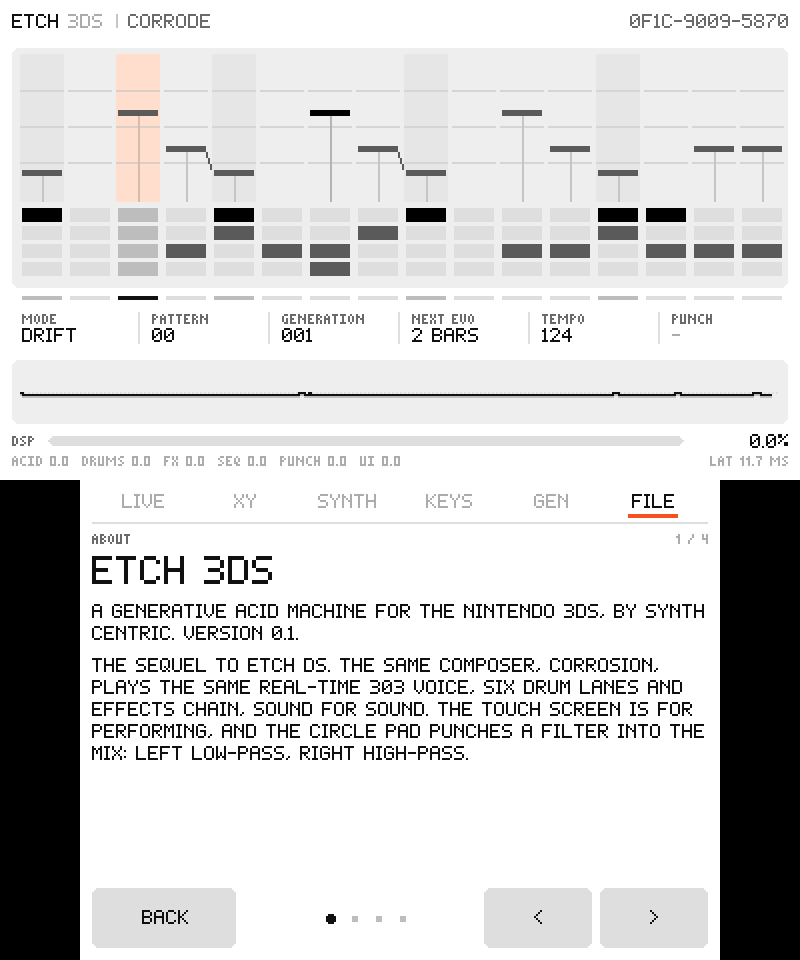
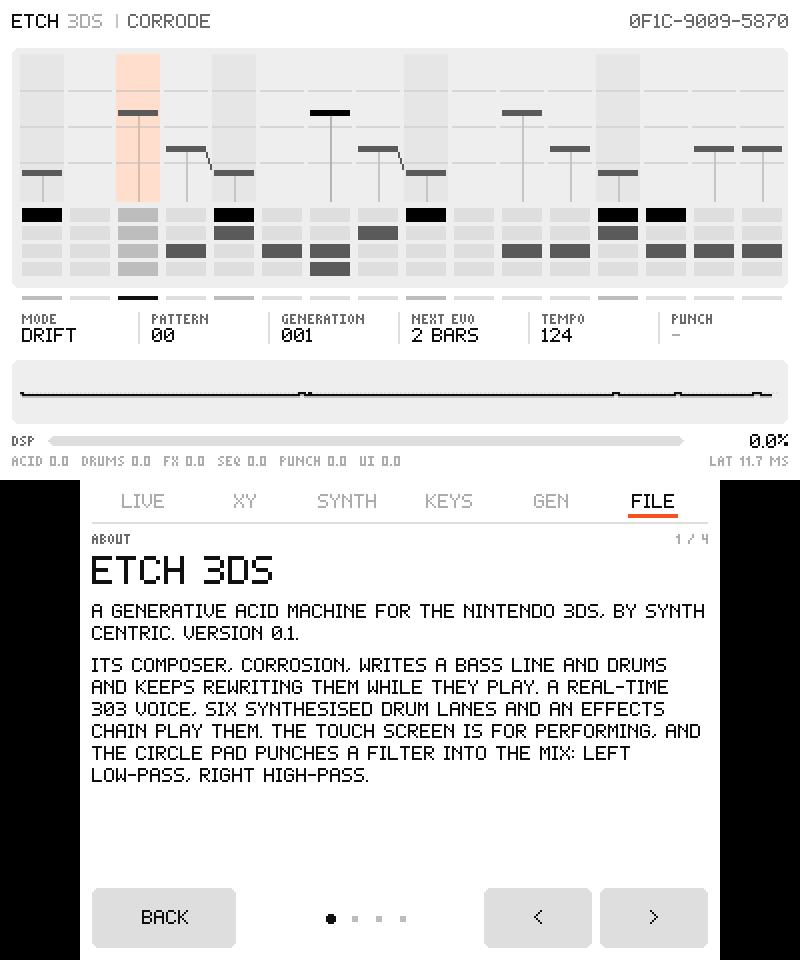
ETCH 3DS: ABOUT reads as a standalone release; core re-synced from ETCH DS 0.4; hand-over prompt updated
Claude-Session: https://claude.ai/code/session_01P79eMKsidhtYV1SaL3tDMu

Changed region(s): [[0.125, 0.6875, 0.875, 0.8125]]

diff --git a/3ds/source/ui.c b/3ds/source/ui.c
@@ -1363,23 +1363,23 @@ static uint16_t fl_msg_col;
 static uint32_t fl_sig = 0xFFFFFFFF;
 
 
-/* ---- ABOUT (from FILE), as on ETCH and ETCH II ------------------------------ */
+/* ---- ABOUT (from FILE): four pages, standalone ------------------------------- */
 #define N_ABOUT 4
 static const char * const about_title[N_ABOUT] = { "ETCH 3DS", "GENERATIVE MUSIC", "SYNTH CENTRIC", "CREDITS" };
 static const char * const about_text[N_ABOUT] = {
     "A generative acid machine for the Nintendo 3DS, by Synth Centric. Version " ETCH_3DS_VERSION ".\n"
-    "The sequel to ETCH DS. The same composer, CORROSION, plays the same real-time 303 voice, six drum lanes "
-    "and effects chain, sound for sound. The touch screen is for performing, and the Circle Pad punches "
-    "a filter into the mix: left low-pass, right high-pass.",
+    "Its composer, CORROSION, writes a bass line and drums and keeps rewriting them while they play. "
+    "A real-time 303 voice, six synthesised drum lanes and an effects chain play them. The touch screen "
+    "is for performing, and the Circle Pad punches a filter into the mix: left low-pass, right high-pass.",
     "Generative music is made by a system of rules and chance instead of being fixed note by note.\n"
     "CORROSION composes a bass line and drums from a seed. In DRIFT or CORRODE it keeps rewriting them, "
-    "so every listen is different. A 12-digit ETCH seed code makes the same groove on Game Boy, "
-    "Game Boy Advance, DS and 3DS.",
+    "so every listen is different. A 12-digit seed code always makes the same groove: "
+    "share the code to share the song.",
     "Dan Schwebel, known as Synth Centric, is an Australian beat maker, music producer, writer and educator.\n"
-    "ETCH, ETCH II, ETCH DS and ETCH 3DS are Synth Centric releases.",
+    "ETCH 3DS is a Synth Centric release.",
     "Code: MIT licence.\n"
     "Music, artwork and names: (c) Synth Centric.\n"
-    "CORROSION: from ETCH 2.5, MIT, unchanged. Sound engine: from ETCH DS, unchanged.\n"
+    "CORROSION and the sound engine: MIT licence.\n"
     "Built with devkitARM and libctru. Every sound is synthesised by the 3DS; there are no recorded samples.",
 };
 static uint8_t fl_about, ab_page;

diff --git a/core/engine/app.h b/core/engine/app.h
@@ -56,7 +56,7 @@ uint32_t audio_scope(int16_t *out, uint32_t n);
 void demo_load(project_t *p);        /* portable: also used by the host tests */
 void demo_import_sound(const project_t *p);
 
-#define ETCH_DS_VERSION "0.3"
+#define ETCH_DS_VERSION "0.4"
 
 /* title.c: the opening screen; returns the entropy of the START press */
 void     title_show(void);          /* draw it (first thing at boot) */

diff --git a/docs/ETCH_3DS_SERIES_FINISH_PROMPT.md b/docs/ETCH_3DS_SERIES_FINISH_PROMPT.md
@@ -29,12 +29,13 @@ Backups of every repository before this work are on the branches `claude/backup-
    - **FILE:** the source button cycles DS → GB → GBA; GBA imports `/etch_ds/etch_gba.sav`.
 3. `docs/SERIES_SPEC.md` copied; `make check` verifies it.
 4. Host tests: 44 + 231 + 81 + 70 + PUNCH 19 + screens 6, 0 failures.
+5. The ABOUT pages read as a standalone release: no "sequel to ETCH DS". Page 1 describes ETCH 3DS only; the generative music page says a seed code always makes the same groove ("share the code to share the song") without naming other consoles; the Synth Centric page says "ETCH 3DS is a Synth Centric release."; the credits keep the licences but don't say "from ETCH 2.5" or "from ETCH DS".
 
 ## Your tasks
 
 Work on the branch `claude/etch-3ds-series`. Commit as you go and push to it. Don't merge, and don't open a pull request unless asked.
 
-1. **Re-sync the core.** ETCH-DS moved on after the 3DS sync: it is now version 0.4 (`ETCH_DS_VERSION` in `arm9/source/app.h`, part of the core) and its host test reads the ETCH II fixture from a `GBA_FIXTURE` path. Run `tools/sync_core.sh` against ETCH-DS `claude/etch-ds-series` HEAD, then `make test`. `tests/host/Makefile` already passes `-DGBA_FIXTURE` for the 3DS layout. Never edit `core/` by hand.
+1. **Check the core.** `core/` is already synced from ETCH-DS `claude/etch-ds-series` (ETCH DS 0.4). If that branch has moved on since, re-run `tools/sync_core.sh` against its HEAD; then `make test`. `tests/host/Makefile` already passes `-DGBA_FIXTURE` for the 3DS layout. Never edit `core/` by hand.
 2. **Build for the console** with devkitARM + libctru (`make`, or `docker run --rm -v "$PWD":/work -w /work devkitpro/devkitarm make`). Expect to fix console-only compile issues: the UI changes were only compiled on the host. Keep the 3DS UI's changes equivalent to ETCH DS's (compare with ETCH-DS `arm9/source/ui.c`).
 3. **Run every existing check:** `make test`, `tools/arm_parity.sh`, `tools/check_audio_path.py` on `etch_3ds.elf`, and the Azahar harness (`tools/run_azahar.py`, including `--tour`, `--saves`, `--punch`, `--stress`, and `--model new3ds`). Zero dropouts, as in milestone 1.
 4. **Check the series controls on the console build** (extend the Azahar runner if needed, as ETCH-DS did in `tools/check_series_controls.py`):
@@ -47,7 +48,7 @@ Work on the branch `claude/etch-3ds-series`. Commit as you go and push to it. Do
    - The accent shows where the spec says, and no text is drawn in it.
 5. **Version:** bump `ETCH_3DS_VERSION` (`3ds/source/platform.h`) from 0.1 to **0.2**. The title and ABOUT show it.
 6. **Screenshots:** regenerate `docs/images` (host `test_screens` + `tools/screens_png.py`, and `azahar.png` from the emulator).
-7. **Manual:** write `docs/ETCH_3DS_Manual.md`, modelled on ETCH-DS `docs/ETCH_DS_Manual.md` (same sections, plain language, screenshots), plus the 3DS-only parts: PUNCH on the Circle Pad (low-pass left, high-pass right, quantised to the next 16th, snaps back), the larger screens, the quit combo, `dspfirm.cdc` (run DSP1 once if there is no sound), the shared save file with ETCH DS, and the GB and GBA imports. Render it to PDF the way ETCH-DS does (`tools/make_pdf_manual.py`: Markdown → HTML → Chromium PDF).
+7. **Manual:** write `docs/ETCH_3DS_Manual.md`, modelled on ETCH-DS `docs/ETCH_DS_Manual.md`. It must read as a standalone release: never "sequel" or "successor". Other consoles are only mentioned where a feature needs them: the save imports, and the shared save file with ETCH DS. Same sections (plain language, screenshots), plus the 3DS-only parts: PUNCH on the Circle Pad (low-pass left, high-pass right, quantised to the next 16th, snaps back), the larger screens, the quit combo, `dspfirm.cdc` (run DSP1 once if there is no sound), the shared save file with ETCH DS, and the GB and GBA imports. Render it to PDF the way ETCH-DS does (`tools/make_pdf_manual.py`: Markdown → HTML → Chromium PDF).
 8. **Release package** in `release/`: `etch_3ds.3dsx`, `ETCH_3DS_Manual.pdf` and `.md`, `ETCH_3DS_source.zip` (`git archive` of the committed tree, without `release/`) and `SHA256SUMS.txt`. Add a "Release (version 0.2)" section to the README listing them, as ETCH-DS does.
 9. **Report:** a short `docs/SERIES_UPDATE_REPORT.md`: what changed, every test with its result, and what still needs real hardware (a real 3DS: sound through `ndsp`, the accent on the top screen, saves on the SD card).
 
@@ -57,4 +58,5 @@ Work on the branch `claude/etch-3ds-series`. Commit as you go and push to it. Do
 - The spec is the contract: the same button never means something different on another ETCH. 3DS-only additions (Circle Pad, 3D slider, ZL/ZR) may add meanings but never change existing ones.
 - Text is never set in the accent colour; text on an accent fill is black.
 - Seed codes: one format for the whole series (spec section 5). When OXIDE is built, it seeds from the fourth group of ETCH II's 16-digit code. The first 12 digits are always CORROSION's.
+- ABOUT pages and manuals read as a standalone release (no "sequel" / "successor").
 - Report results honestly: if something couldn't be run, say so.

diff --git a/README.md b/README.md
@@ -2,7 +2,7 @@
 
 **A generative acid machine for the Nintendo 3DS — by Synth Centric**
 
-ETCH 3DS is the Nintendo 3DS sequel to [ETCH DS](https://github.com/swebdan-design/ETCH-DS), which grew out of [ETCH](https://github.com/swebdan-design/Etch---GB) for the Game Boy. It keeps the same composer (CORROSION), the same seed codes, the same 303 at the centre and the same project files. The 3DS adds room to grow.
+ETCH 3DS is a generative acid machine for the Nintendo 3DS. It shares its composer and sound engine with [ETCH DS](https://github.com/swebdan-design/ETCH-DS): the same composer (CORROSION), the same seed codes, the same 303 at the centre and the same project files. The 3DS adds room to grow.
 
 This is **milestone 1, "It squelches in 3D"**. It ports ETCH DS to the 3DS sound for sound, and proves the platform layer before any new instrument is built:
 
